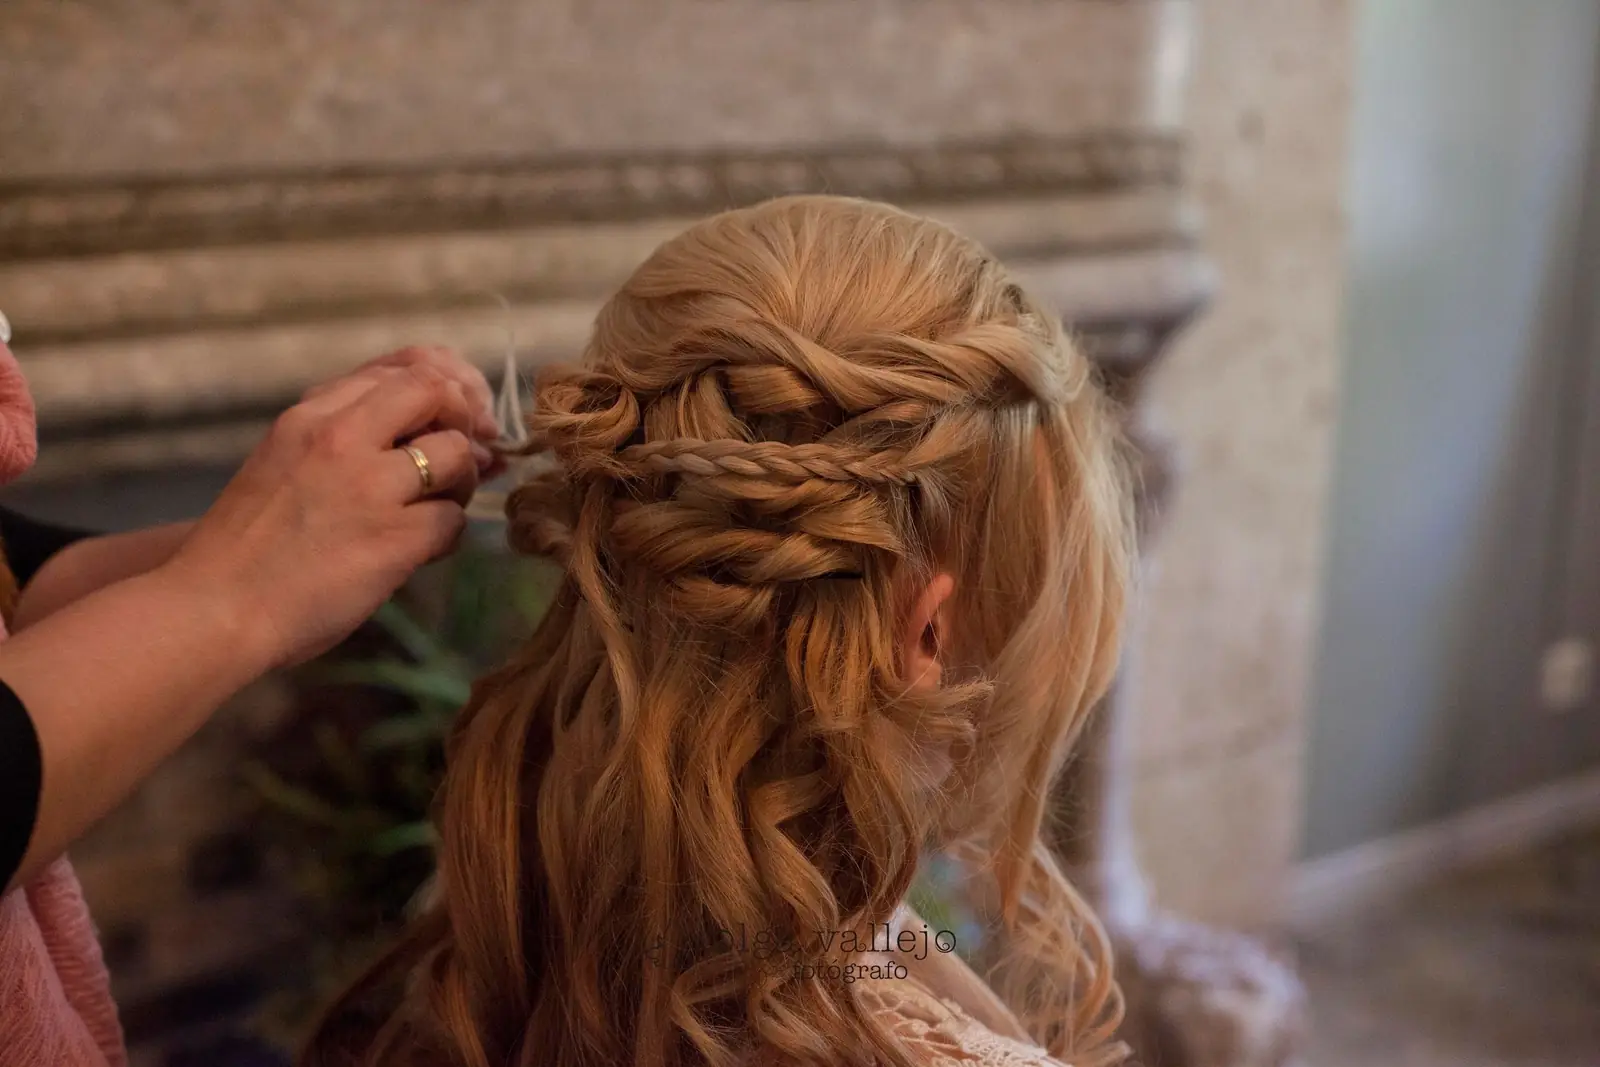
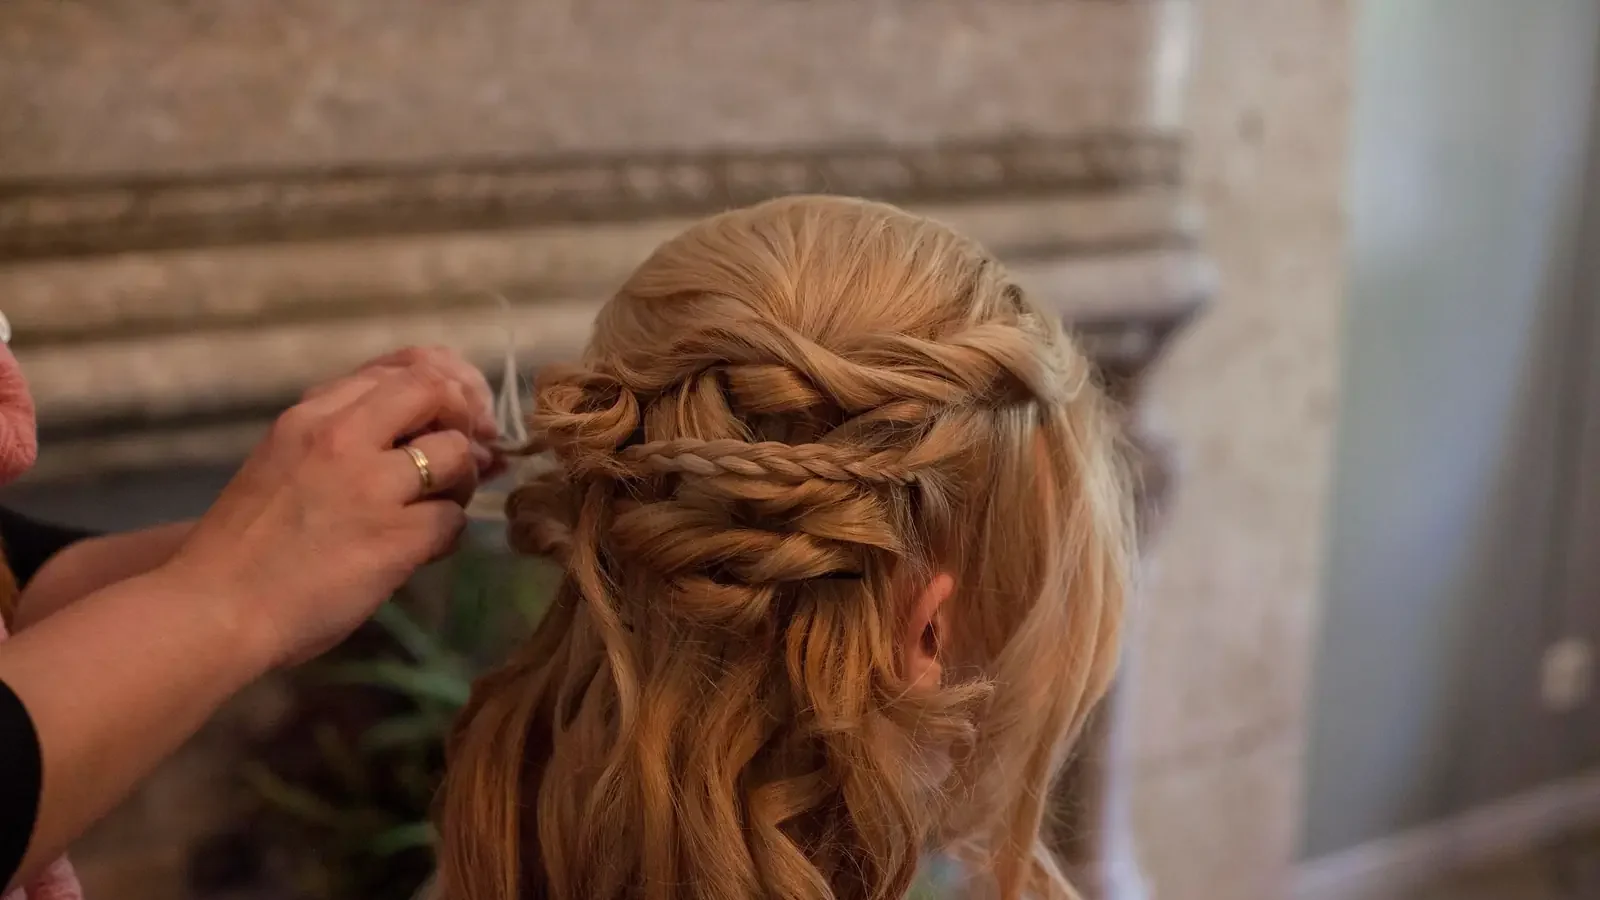
Web de PeluChic: reseñas estables, carta con selector, sin «Gerente», portada más clara y sin firma, ancho de escritorio y menú alineado
- Reseñas: la nota ya no sube desde 0 y un salón real con demo registrada
  conserva la nota de Google al hidratar (antes la sección desaparecía).
- Carta: selector único a todo el ancho hasta 1024 px; pestañas que bajan
  de línea en ordenador; rejilla de 3 columnas desde 1280 px.
- Especialidad pública sin rol interno (especialidadPublica, con pruebas),
  en la portada y en la reserva.
- Portada: velo degradado más ligero (0,62–0,74) y foto recortada sin la
  firma del fotógrafo (originales guardados como …-original.webp).
- Contenedor de 1240 a 1600 px con margen fluido y títulos que escalan.
- Menú: «Preguntas» en la misma línea que el resto.

Claude-Session: https://claude.ai/code/session_017kiWjYDbtUJGjQr2RTMDec

diff --git a/src/components/web-salon/CartaServicios.tsx b/src/components/web-salon/CartaServicios.tsx
@@ -1,6 +1,6 @@
 import { useId, useRef, useState, type KeyboardEvent } from "react";
 import { Link } from "@tanstack/react-router";
-import { ArrowRight, Clock } from "lucide-react";
+import { ArrowRight, ChevronDown, Clock } from "lucide-react";
 import type { Service } from "@/lib/mock/types";
 import { cn } from "@/lib/utils";
 import { precioDeCarta } from "@/lib/web-publica";
@@ -35,7 +35,7 @@ export function CartaServicios({
   if (!grupos.length) return null;
 
   const lista = (items: ServicioCarta[]) => (
-    <ul className="grid gap-2.5 md:grid-cols-2 2xl:grid-cols-3">
+    <ul className="grid gap-2.5 md:grid-cols-2 xl:grid-cols-3">
       {items.map((s) => {
         const descripcion = descripciones?.[s.id]?.trim() || s.description?.trim();
         return (
@@ -104,12 +104,39 @@ export function CartaServicios({
 
   return (
     <div>
-      {/* Móvil: una fila que se desliza. Desde 768 px las pestanas bajan de
-          línea: con siete categorías, la última quedaba oculta sin pista. */}
+      {/* Móvil y tablet (22-oct): un único selector a todo el ancho con la
+          categoría actual y su número de servicios. La fila de pestañas se
+          cortaba («Tratami…») y, apilada, era un tocho de botones. */}
+      <div className="lg:hidden">
+        <label id={`${id}-etiqueta`} htmlFor={`${id}-selector`} className="ws-etiqueta mb-2 block text-center">
+          Categoría
+        </label>
+        <div className="relative mx-auto max-w-xl">
+          <select
+            id={`${id}-selector`}
+            aria-labelledby={`${id}-etiqueta`}
+            value={actual}
+            onChange={(e) => setActiva(Number(e.target.value))}
+            aria-controls={`${id}-panel`}
+            className="h-12 w-full cursor-pointer appearance-none truncate rounded-full border border-lino-fuerte bg-card pl-5 pr-12 text-[15px] font-bold text-foreground shadow-[var(--sombra-tarjeta-sm)] focus-visible:outline-none focus-visible:ring-2 focus-visible:ring-ring focus-visible:ring-offset-2"
+          >
+            {grupos.map((g, i) => (
+              <option key={g.cat} value={i}>
+                {g.cat} ({g.items.length})
+              </option>
+            ))}
+          </select>
+          <ChevronDown
+            className="pointer-events-none absolute right-4 top-1/2 h-5 w-5 -translate-y-1/2 text-foreground"
+            aria-hidden="true"
+          />
+        </div>
+      </div>
+      {/* Ordenador: pestañas que bajan de línea, centradas. */}
       <div
         role="tablist"
         aria-label="Categorías de la carta"
-        className="sin-scrollbar flex gap-2 overflow-x-auto md:flex-wrap md:overflow-visible"
+        className="hidden flex-wrap justify-center gap-2 lg:flex"
       >
         {grupos.map((g, i) => {
           const sel = i === actual;

diff --git a/src/routes/s.$salonSlug.index.tsx b/src/routes/s.$salonSlug.index.tsx
@@ -59,6 +59,7 @@ import {
   notaEs,
   precioDeCarta,
   resenasDeGoogle,
+  especialidadPublica,
   seccionResenasPublicas,
 } from "@/lib/web-publica";
 import { CartaServicios } from "@/components/web-salon/CartaServicios";
@@ -530,14 +531,17 @@ function SalonHome() {
                   ? `Un trabajo de ${profile.name}`
                   : `Interior de ${profile.name}`
             }
-            className="ws-portada-foto absolute inset-0 -z-20 h-full w-full object-cover"
+            className="ws-portada-foto absolute inset-0 -z-20 h-full w-full object-cover object-[42%_40%] md:object-[50%_40%]"
             width={1920}
             height={1280}
             fetchPriority="high"
             decoding="async"
           />
         )}
-        <div className="absolute inset-0 -z-10 bg-cafe/80" aria-hidden="true" />
+        {/* Velo más ligero (22-oct, «súbele un pelín el brillo»): 0,62 en los
+            bordes y 0,74 detrás del texto, donde el blanco sigue por encima de
+            4,5:1 aun sobre el píxel más claro de la foto. */}
+        <div className="ws-portada-velo absolute inset-0 -z-10" aria-hidden="true" />
 
         <div
           className={cn(
@@ -763,7 +767,7 @@ function SalonHome() {
               <Reveal>
                 <SoloProfessional
                   name={soloPro.name}
-                  specialty={soloPro.specialty}
+                  specialty={especialidadPublica(soloPro.specialty)}
                   experience={experienciaEquipo?.porProfesional[0]?.experiencia}
                   photo={showsRealPhotos(tipo) ? fotoDe(soloPro) : undefined}
                 />
@@ -778,7 +782,7 @@ function SalonHome() {
                     >
                       <span className="min-w-0">
                         <b className="block font-display text-xl font-medium">{e.name}</b>
-                        <span className="block text-sm text-muted-foreground">{e.specialty}</span>
+                        <span className="block text-sm text-muted-foreground">{especialidadPublica(e.specialty)}</span>
                         {experienciaEquipo && (
                           <span className="block text-[13px] text-cafe-suave tabular-nums">
                             {experienciaEquipo.porProfesional[i]?.experiencia}
@@ -796,8 +800,8 @@ function SalonHome() {
                     id: e.id,
                     name: e.name,
                     role: experienciaEquipo
-                      ? `${e.specialty} · ${experienciaEquipo.porProfesional[i]?.rol}`
-                      : e.specialty,
+                      ? `${especialidadPublica(e.specialty)} · ${experienciaEquipo.porProfesional[i]?.rol}`
+                      : especialidadPublica(e.specialty),
                     image: fotoDe(e),
                   }))}
                 />

diff --git a/src/components/web-salon/Movimiento.tsx b/src/components/web-salon/Movimiento.tsx
@@ -1,6 +1,4 @@
-import { useEffect, useState } from "react";
 import { useReveal } from "@/hooks/use-reveal";
-import { salidaSuave } from "@/lib/movimiento-panel";
 import { cn } from "@/lib/utils";
 import { notaEs } from "@/lib/web-publica";
 
@@ -23,35 +21,10 @@ export function TrazoTitulo({ className, centrado }: { className?: string; centr
 }
 
 /**
- * La nota (4,5) sube desde 0 en 700 ms cuando la sección entra en pantalla.
- * El lector de pantalla oye solo el valor final.
+ * La nota del salón (4,5), fija desde el primer pintado. Antes subía desde 0
+ * al entrar en pantalla y, en móvil y en ordenador, se veía aparecer y
+ * desaparecer (22-oct, PeluChic): ahora se enseña el valor final y nada más.
  */
 export function NotaQueSube({ valor, className }: { valor: number; className?: string }) {
-  const { ref, visible, armado } = useReveal<HTMLSpanElement>();
-  const [n, setN] = useState(valor);
-  useEffect(() => {
-    if (!armado) {
-      setN(valor);
-      return;
-    }
-    if (!visible) {
-      setN(0);
-      return;
-    }
-    const ini = performance.now();
-    let id = 0;
-    const paso = (t: number) => {
-      const k = salidaSuave((t - ini) / 700);
-      setN(k >= 1 ? valor : valor * k);
-      if (k < 1) id = requestAnimationFrame(paso);
-    };
-    id = requestAnimationFrame(paso);
-    return () => cancelAnimationFrame(id);
-  }, [armado, visible, valor]);
-  return (
-    <span ref={ref} className={className}>
-      <span aria-hidden="true">{notaEs(Math.round(n * 10) / 10)}</span>
-      <span className="sr-only">{notaEs(valor)}</span>
-    </span>
-  );
+  return <span className={className}>{notaEs(valor)}</span>;
 }

diff --git a/src/web-salon.css b/src/web-salon.css
@@ -19,11 +19,23 @@
   margin-inline: auto;
   padding-inline: var(--ws-gutter);
 }
+/* 22-oct: en ordenador el ancho útil crece con la pantalla (1240 → 1600 px)
+ * y el margen lateral es fluido (hasta 48 px). A 1920 px quedaban 360 px
+ * vacíos a cada lado. El móvil (16 px) no cambia. */
 @media (min-width: 48rem) {
-  :root { --ws-gutter: 24px; }
+  :root { --ws-gutter: clamp(16px, 4vw, 48px); }
 }
 @media (min-width: 64rem) {
-  :root { --ws-gutter: 32px; }
+  :root { --ws-ancho-util: clamp(1240px, 86vw, 1600px); }
+}
+/* Tipografía que acompaña al ancho: títulos y texto de lectura crecen un poco
+ * en pantallas grandes para no verse diminutos al 100 %. */
+@media (min-width: 64rem) {
+  .web-salon h2.ws-titulo { font-size: clamp(38px, 2.7vw, 50px); }
+}
+@media (min-width: 90rem) {
+  .web-salon main .text-\[15px\] { font-size: 16px; }
+  .web-salon main .text-sm { font-size: 15px; }
 }
 
 /* ---- Paleta de la web del salón (18.2) -----------------------------------
@@ -215,6 +227,10 @@ body:has(.web-salon) [role="dialog"] .font-display {
 @keyframes ws-acercar {
   from { transform: scale(1.06); }
   to { transform: scale(1); }
+}
+.web-salon .ws-portada-velo {
+  background:
+    radial-gradient(ellipse 62% 58% at 50% 52%, rgba(48, 48, 48, .74) 0%, rgba(48, 48, 48, .70) 55%, rgba(48, 48, 48, .62) 100%);
 }
 .web-salon .ws-portada-foto {
   animation: ws-acercar 1600ms var(--curva-salida) both;

diff --git a/src/lib/web-publica.ts b/src/lib/web-publica.ts
@@ -242,3 +242,42 @@ export function seccionResenasPublicas({
   if (esSalonReal) return "oculta";
   return "ejemplo";
 }
+
+/* ---- Especialidad pública de una profesional (22-oct) ----------------------
+ * El equipo guarda a veces el rol interno delante de la especialidad
+ * («Gerente · peluquería, color y novias»). El rol es cosa del panel: en la
+ * web pública y en la reserva solo se enseña la especialidad, con mayúscula.
+ * ------------------------------------------------------------------------- */
+const ROLES_INTERNOS = [
+  "gerente",
+  "encargada",
+  "encargado",
+  "subencargada",
+  "subencargado",
+  "recepción",
+  "recepcion",
+  "recepcionista",
+  "dueña",
+  "dueño",
+  "propietaria",
+  "propietario",
+  "directora",
+  "director",
+  "responsable",
+];
+const RE_ROL_INICIAL = new RegExp(
+  `^\\s*(?:${ROLES_INTERNOS.join("|")})\\b\\s*(?:[·•|,:;/–—-]\\s*)?`,
+  "iu",
+);
+
+/** «Gerente · peluquería, color y novias» → «Peluquería, color y novias». */
+export function especialidadPublica(texto: string | undefined | null): string {
+  let t = (texto ?? "").trim();
+  // Puede haber más de un rol encadenado («Gerente · Recepción · color»).
+  for (let i = 0; i < 3; i++) {
+    const sin = t.replace(RE_ROL_INICIAL, "");
+    if (sin === t) break;
+    t = sin.trim();
+  }
+  return t ? t.charAt(0).toLocaleUpperCase("es-ES") + t.slice(1) : "";
+}

diff --git a/src/lib/web-publica-especialidad.test.ts b/src/lib/web-publica-especialidad.test.ts
@@ -1,0 +1,25 @@
+import { describe, expect, test } from "bun:test";
+import { especialidadPublica } from "./web-publica";
+
+describe("especialidadPublica", () => {
+  test("quita el rol interno y su separador, y pone mayúscula", () => {
+    expect(especialidadPublica("Gerente · peluquería, color y novias")).toBe(
+      "Peluquería, color y novias",
+    );
+    expect(especialidadPublica("Encargada - color")).toBe("Color");
+    expect(especialidadPublica("recepción: uñas")).toBe("Uñas");
+    expect(especialidadPublica("Gerente · Recepción · mechas")).toBe("Mechas");
+  });
+  test("deja intacta una especialidad sin rol", () => {
+    expect(especialidadPublica("Faciales y spa japonés")).toBe("Faciales y spa japonés");
+    expect(especialidadPublica("Estética, masajes y cabina")).toBe("Estética, masajes y cabina");
+  });
+  test("no corta palabras que empiezan igual que un rol", () => {
+    expect(especialidadPublica("Directoras de color")).toBe("Directoras de color");
+  });
+  test("solo rol o vacío devuelve cadena vacía", () => {
+    expect(especialidadPublica("Gerente")).toBe("");
+    expect(especialidadPublica(undefined)).toBe("");
+    expect(especialidadPublica("  ")).toBe("");
+  });
+});

diff --git a/src/lib/use-display-profile.ts b/src/lib/use-display-profile.ts
@@ -4,7 +4,7 @@ import { DEMO_PARAM, decodeDemoProfile, perfilConEnlace } from "./demo-profile";
 import { useSalonStore } from "./store";
 import type { SalonProfile } from "./mock/types";
 import { inferBusinessType, type BusinessType } from "./business-type";
-import { completarConDemoRegistrada, demoPorSlug } from "./demos";
+import { completarConDemoRegistrada, completarNotaGoogleDeDemo, demoPorSlug } from "./demos";
 import { enlaceDemoEnPestana, perfilDeDemoRegistrada } from "./demos/aplicar";
 import { leerPrevia } from "./vista-previa";
 
@@ -78,6 +78,9 @@ export function useDisplayProfile(): SalonProfile {
       // La pestaña recuerda un `?d=` de este slug y lo aplicó a la store
       // (p. ej. en /book, si el enlace se perdió al navegar): se completa igual.
       if (completar && enlaceDemoEnPestana(slug!)) return completarConDemoRegistrada(slug, stored);
+      // Salón real con demo registrada: la nota de Google no puede desaparecer
+      // al hidratar (ver `completarNotaGoogleDeDemo`).
+      if (slug && slug === realSalonSlug) return completarNotaGoogleDeDemo(slug, stored);
       return stored;
     }
     // Lo que el enlace no traiga se queda en blanco, NO se hereda del salón

diff --git a/src/lib/demos/index.ts b/src/lib/demos/index.ts
@@ -141,3 +141,28 @@ export function completarConDemoRegistrada<T extends Partial<SalonProfile>>(slug
   }
   return out as T;
 }
+
+/**
+ * Nota y reseñas de Google de un salón REAL cuyo slug tiene demo registrada
+ * (22-oct, PeluChic). El servidor pinta la demo registrada (4,5 · 81 reseñas)
+ * y, al hidratar, el perfil de la base de datos llegaba sin nota: la sección
+ * «Reseñas» y la nota de la portada aparecían y desaparecían. Solo se
+ * completan esas cifras públicas de su ficha de Google, y solo si el salón no
+ * guardó las suyas; el resto del perfil real no se toca.
+ */
+export function completarNotaGoogleDeDemo<T extends Partial<SalonProfile>>(
+  slug: string | undefined | null,
+  real: T,
+): T {
+  const demo = demoPorSlug(slug);
+  if (!demo || !(demo.rating > 0) || !(demo.reviewCount > 0)) return real;
+  if ((real.rating ?? 0) > 0 && (real.reviewCount ?? 0) > 0) return real;
+  const fichaDemo = demo.enlaces?.resenas;
+  const enlaces = real.enlaces ?? {};
+  return {
+    ...real,
+    rating: demo.rating,
+    reviewCount: demo.reviewCount,
+    ...(fichaDemo && !enlaces.resenas ? { enlaces: { ...enlaces, resenas: fichaDemo } } : {}),
+  };
+}

diff --git a/src/lib/demos/nota-google.test.ts b/src/lib/demos/nota-google.test.ts
@@ -1,0 +1,21 @@
+import { describe, expect, test } from "bun:test";
+import { completarNotaGoogleDeDemo, demoPorSlug } from "./index";
+
+describe("completarNotaGoogleDeDemo", () => {
+  test("un salón real sin nota toma la de su ficha registrada", () => {
+    const demo = demoPorSlug("peluchic")!;
+    const out = completarNotaGoogleDeDemo("peluchic", { slug: "peluchic", rating: 0, reviewCount: 0, enlaces: { blog: "https://peluchic.online/" } });
+    expect(out.rating).toBe(demo.rating);
+    expect(out.reviewCount).toBe(demo.reviewCount);
+    expect(out.enlaces?.blog).toBe("https://peluchic.online/");
+    expect(out.enlaces?.resenas).toBe(demo.enlaces?.resenas);
+  });
+  test("si el salón ya guardó su nota, no se toca", () => {
+    const real = { slug: "peluchic", rating: 4.8, reviewCount: 120 };
+    expect(completarNotaGoogleDeDemo("peluchic", real)).toBe(real);
+  });
+  test("sin demo registrada devuelve el perfil tal cual", () => {
+    const real = { slug: "otro-salon", rating: 0, reviewCount: 0 };
+    expect(completarNotaGoogleDeDemo("otro-salon", real)).toBe(real);
+  });
+});

diff --git a/src/routes/s.$salonSlug.tsx b/src/routes/s.$salonSlug.tsx
@@ -382,9 +382,9 @@ function SalonLayout() {
                   key={l.href}
                   href={l.href}
                   className={cn(
-                    "relative inline-flex min-h-11 items-center px-2 text-cafe-medio transition-colors after:absolute after:bottom-1 after:left-2 after:h-px after:w-0 after:bg-primary after:transition-all hover:text-foreground hover:after:w-[calc(100%-1rem)] motion-reduce:after:transition-none",
+                    "relative inline-flex min-h-11 items-center whitespace-nowrap px-2 leading-none text-cafe-medio transition-colors after:absolute after:bottom-1 after:left-2 after:h-px after:w-0 after:bg-primary after:transition-all hover:text-foreground hover:after:w-[calc(100%-1rem)] motion-reduce:after:transition-none",
                     // A 1024-1279 px no cabe todo en una línea: «Preguntas» queda en el menú y en la página.
-                    l.href === "#faq" && "hidden xl:inline",
+                    l.href === "#faq" && "hidden xl:inline-flex",
                   )}
                 >
                   {l.label}

diff --git a/src/routes/s.$salonSlug.book.tsx b/src/routes/s.$salonSlug.book.tsx
@@ -67,7 +67,7 @@ import { Textarea } from "@/components/ui/textarea";
 import { Checkbox } from "@/components/ui/checkbox";
 import { Separator } from "@/components/ui/separator";
 import { Calendar } from "@/components/ui/calendar";
-import { CONTENEDOR_SALON } from "@/lib/web-publica";
+import { CONTENEDOR_SALON, especialidadPublica } from "@/lib/web-publica";
 import { es } from "date-fns/locale";
 import heroImg from "@/assets/hero-salon.jpg";
 import { registerBookingClient } from "@/lib/api/clients.functions";
@@ -1518,7 +1518,7 @@ function StylistStep({
           >
             <div>
               <p className="font-bold">{e.name}</p>
-              <p className="mt-1 text-sm text-muted-foreground">{e.specialty}</p>
+              <p className="mt-1 text-sm text-muted-foreground">{especialidadPublica(e.specialty)}</p>
             </div>
           </button>
         ))}
